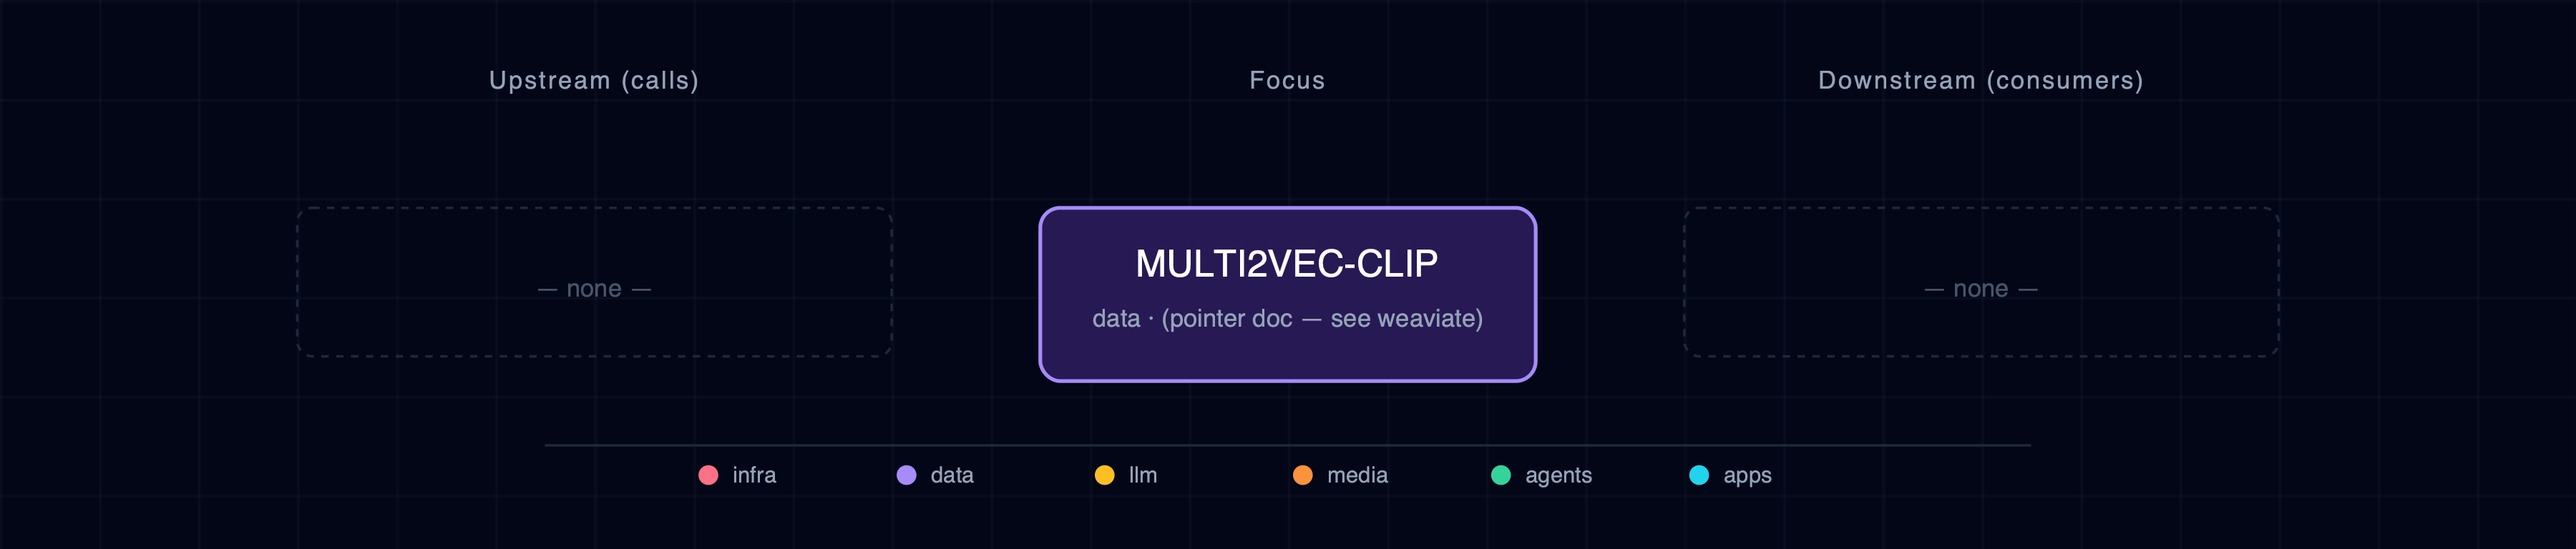
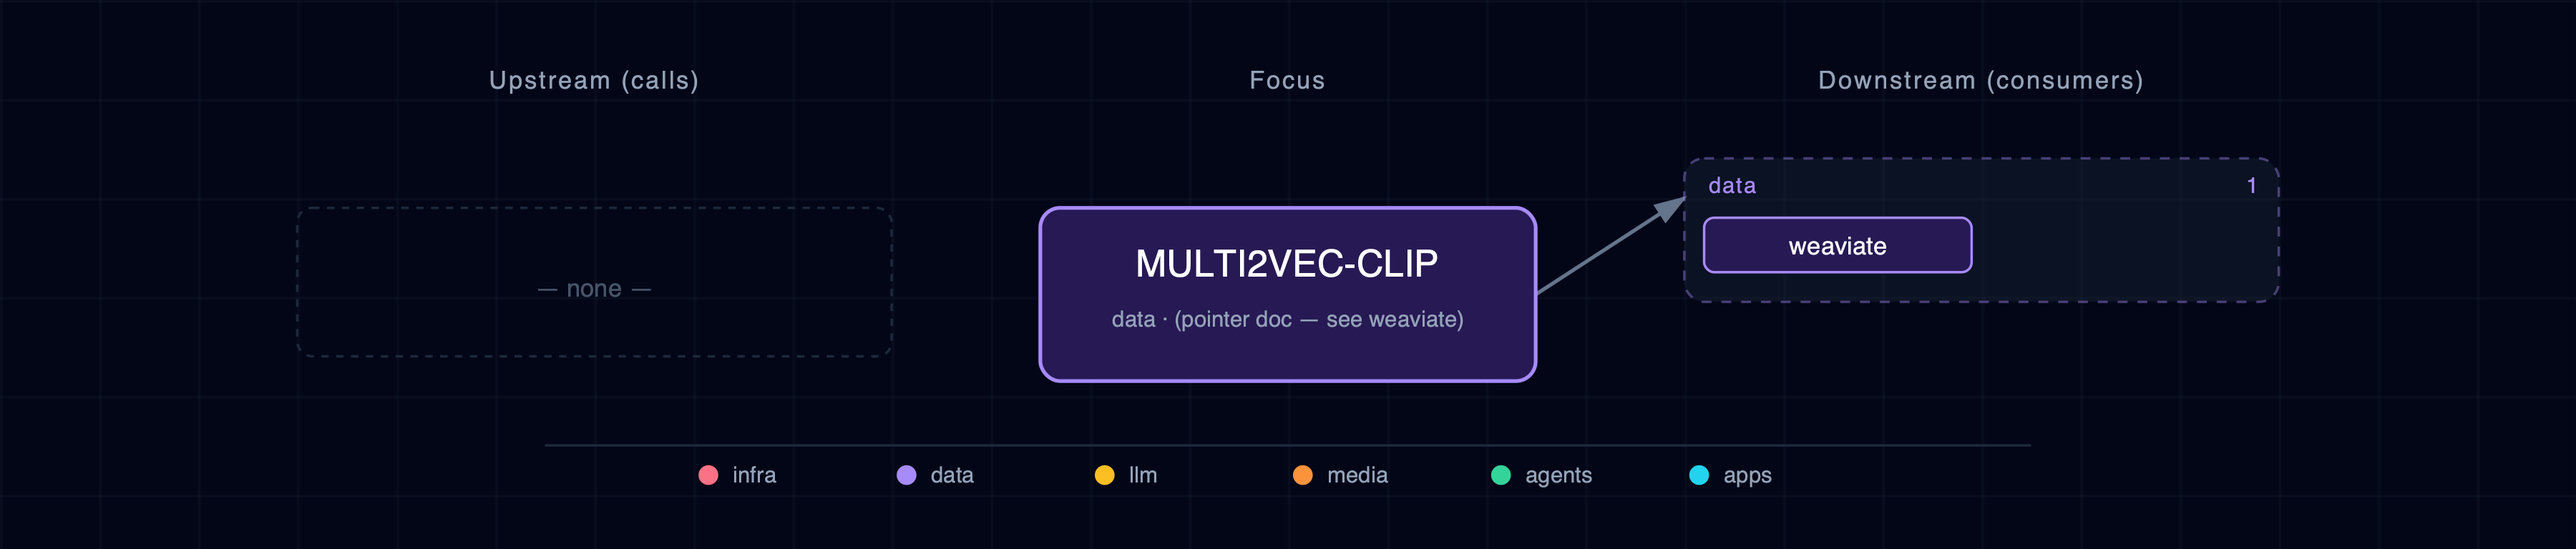
fix(docs): show CLIP consumers and fit diagram caption [skip ci]
Include declared consumers for pointer-only docs through the existing inverse traversal. Fit the current diagram subtitle without changing its text or layout. Regenerate only the affected CLIP artifacts.

Addresses #1662.

Changed region(s): [[0.6222, 0.3125, 0.7778, 0.5625], [0.4044, 0.5625, 0.5911, 0.5938]]

diff --git a/services/multi2vec-clip/architecture.html b/services/multi2vec-clip/architecture.html
@@ -43,9 +43,22 @@
 <text x="240" y="36" fill="#94a3b8" font-size="10" font-weight="600" text-anchor="middle" letter-spacing="0.08em">Upstream (calls)</text>
 <text x="520" y="36" fill="#94a3b8" font-size="10" font-weight="600" text-anchor="middle" letter-spacing="0.08em">Focus</text>
 <text x="800" y="36" fill="#94a3b8" font-size="10" font-weight="600" text-anchor="middle" letter-spacing="0.08em">Downstream (consumers)</text>
+<line x1="620" y1="119" x2="680" y2="80" stroke="#64748b" stroke-width="1.5" marker-end="url(#arrowhead)"/>
 <g><rect x="120" y="84" width="240" height="60" rx="6" fill="none" stroke="#1e293b" stroke-width="1" stroke-dasharray="3,3"/><text x="240" y="120" fill="#475569" font-size="10" font-style="italic" text-anchor="middle">— none —</text></g>
-<g><rect x="680" y="84" width="240" height="60" rx="6" fill="none" stroke="#1e293b" stroke-width="1" stroke-dasharray="3,3"/><text x="800" y="120" fill="#475569" font-size="10" font-style="italic" text-anchor="middle">— none —</text></g>
-<g class="focus" filter="url(#focus-glow)">  <rect x="420" y="84" width="200" height="70" rx="8" fill="#0f172a"/>  <rect x="420" y="84" width="200" height="70" rx="8"         fill="rgba(76, 29, 149, 0.4)" stroke="#a78bfa" stroke-width="1.5"/>  <text x="520" y="112" fill="white" font-size="15" font-weight="700"         text-anchor="middle">MULTI2VEC-CLIP</text>  <text x="520" y="132" fill="#94a3b8" font-size="10"         text-anchor="middle">data · (pointer doc — see weaviate)</text></g>
+<g>
+<g class="cluster">
+  <rect x="680" y="64" width="240" height="58" rx="8"
+        fill="rgba(30,41,59,0.35)"
+        stroke="#a78bfa" stroke-width="1" stroke-dasharray="4,4" stroke-opacity="0.4"/>
+  <text x="690" y="78" fill="#a78bfa" font-size="9" font-weight="700"
+        text-anchor="start" style="letter-spacing:0.06em;text-transform:uppercase;">data</text>
+  <text x="910" y="78" fill="#a78bfa" font-size="9" font-weight="600"
+        text-anchor="end">1</text>
+</g>
+
+<g><rect x="688" y="88" width="108" height="22" rx="4" fill="#0f172a"/><rect x="688" y="88" width="108" height="22" rx="4" fill="rgba(76, 29, 149, 0.4)" stroke="#a78bfa" stroke-width="1"/><text x="742" y="103" fill="white" font-size="10" text-anchor="middle">weaviate</text></g>
+</g>
+<g class="focus" filter="url(#focus-glow)">  <rect x="420" y="84" width="200" height="70" rx="8" fill="#0f172a"/>  <rect x="420" y="84" width="200" height="70" rx="8"         fill="rgba(76, 29, 149, 0.4)" stroke="#a78bfa" stroke-width="1.5"/>  <text x="520" y="112" fill="white" font-size="15" font-weight="700"         text-anchor="middle">MULTI2VEC-CLIP</text>  <text x="520" y="132" fill="#94a3b8" font-size="9"         text-anchor="middle">data · (pointer doc — see weaviate)</text></g>
 <g class="legend"><line x1="220" y1="180" x2="820" y2="180" stroke="#1e293b" stroke-width="1"/>
 <circle cx="286" cy="192" r="4" fill="#fb7185"/>
 <text x="296" y="195" fill="#94a3b8" font-size="9" font-weight="400" text-anchor="start">infra</text>
@@ -63,8 +76,8 @@
 </svg></div>
     <div class="cards">
       <div class="card"><h3>Calls</h3><div class="num">0</div></div>
-      <div class="card"><h3>Consumers</h3><div class="num">0</div></div>
-      <div class="card"><h3>Categories</h3><div class="num">0</div></div>
+      <div class="card"><h3>Consumers</h3><div class="num">1</div></div>
+      <div class="card"><h3>Categories</h3><div class="num">1</div></div>
     </div>
   </div>
 </body>

diff --git a/bootstrapper/docs/deps_resolver.py b/bootstrapper/docs/deps_resolver.py
@@ -148,6 +148,10 @@ def build_doc_graph(
             category="data",
             port_var=None,
             source="(pointer doc — see weaviate)",
+            downstream=tuple(sorted(
+                _downstream_edges(doc_folder, set(), manifests_by_name).values(),
+                key=_edge_sort_key,
+            )),
         )
 
     members = [manifests_by_name[n] for n in manifest_names if n in manifests_by_name]
@@ -193,32 +197,7 @@ def _build_for_manifests(
                 condition=call.condition,
             ))
 
-    # Downstream — every other manifest whose data_flow.calls names focus,
-    # any member, or the doc folder containing the focus. The last is
-    # load-bearing for aggregate MEMBERS: consumers call the role name
-    # (e.g. kong/n8n/open-webui/hermes call `stt-provider`, not `parakeet`),
-    # so without it a member like parakeet/chatterbox/speaches/docling
-    # rendered a misleading "No downstream consumers". The self-loop guard
-    # below keeps the focus's own folder from being drawn as a consumer.
-    downstream_keys: set[str] = {focus, *member_names, _manifest_to_doc_folder(focus)}
-    downstream: dict[str, DepEdge] = {}
-    for other_name, other_m in all_m.items():
-        if other_name in member_names:
-            continue
-        # Render the consumer under its doc-folder name where applicable, and
-        # never as a self-loop via doc-folder collapse.
-        rendered = _manifest_to_doc_folder(other_name)
-        if rendered == focus or rendered in member_names:
-            continue
-        for call in _calls_of(other_m):
-            if call.target in downstream_keys:
-                downstream[rendered] = _stronger(downstream.get(rendered), DepEdge(
-                    other=rendered,
-                    direction="downstream",
-                    other_category=_resolve_category(rendered, all_m),
-                    status=call.status,
-                    condition=call.condition,
-                ))
+    downstream = _downstream_edges(focus, member_names, all_m)
 
     # Bidirectional collapse: same name in both directions.
     both = set(upstream) & set(downstream)
@@ -254,6 +233,40 @@ def _build_for_manifests(
         downstream=tuple(sorted(downstream.values(), key=_edge_sort_key)),
         init_containers=init_containers,
     )
+
+
+def _downstream_edges(
+    focus: str, member_names: set[str], all_m: dict[str, Manifest],
+) -> dict[str, DepEdge]:
+    """Find declared callers for singleton, aggregate and pointer-only docs."""
+    # Downstream — every other manifest whose data_flow.calls names focus,
+    # any member, or the doc folder containing the focus. The last is
+    # load-bearing for aggregate MEMBERS: consumers call the role name
+    # (e.g. kong/n8n/open-webui/hermes call `stt-provider`, not `parakeet`),
+    # so without it a member like parakeet/chatterbox/speaches/docling
+    # rendered a misleading "No downstream consumers". The self-loop guard
+    # below keeps the focus's own folder from being drawn as a consumer.
+    downstream_keys: set[str] = {focus, *member_names, _manifest_to_doc_folder(focus)}
+    downstream: dict[str, DepEdge] = {}
+    for other_name, other_m in all_m.items():
+        if other_name in member_names:
+            continue
+        # Render the consumer under its doc-folder name where applicable, and
+        # never as a self-loop via doc-folder collapse.
+        rendered = _manifest_to_doc_folder(other_name)
+        if rendered == focus or rendered in member_names:
+            continue
+        for call in _calls_of(other_m):
+            if call.target in downstream_keys:
+                downstream[rendered] = _stronger(downstream.get(rendered), DepEdge(
+                    other=rendered,
+                    direction="downstream",
+                    other_category=_resolve_category(rendered, all_m),
+                    status=call.status,
+                    condition=call.condition,
+                ))
+
+    return downstream
 
 
 def _resolve_category(name: str, all_m: dict[str, Manifest]) -> str:

diff --git a/bootstrapper/tests/test_deps_resolver.py b/bootstrapper/tests/test_deps_resolver.py
@@ -173,3 +173,39 @@ def test_edge_status_comes_from_the_declaring_manifest():
         current, current, planned, "A; B",
     )
 
+
+
+def test_pointer_doc_includes_declared_weaviate_consumer():
+    from docs.deps_resolver import build_doc_graph
+
+    graph = build_doc_graph("multi2vec-clip", SERVICES_DIR)
+    consumers = {edge.other: edge for edge in graph.downstream}
+    assert "weaviate" in consumers
+    edge = consumers["weaviate"]
+    assert (edge.direction, edge.other_category, edge.status, edge.condition) == (
+        "downstream", "data", "current", "",
+    )
+    assert (graph.focus, graph.category, graph.port_var, graph.source, graph.upstream, graph.init_containers) == (
+        "multi2vec-clip", "data", None, "(pointer doc — see weaviate)", (), (),
+    )
+
+
+@pytest.mark.parametrize("case", [
+    ({"target": "multi2vec-clip", "status": "current"}, [("weaviate", "current", "")]),
+    ({"target": "multi2vec-clip", "status": "optional", "condition": "CLIP enabled"},
+     [("weaviate", "optional", "CLIP enabled")]),
+    ({"target": "multi2vec-clip", "status": "planned", "condition": "future caller"},
+     [("weaviate", "planned", "future caller")]),
+    ({"target": "litellm", "status": "current"}, []),
+])
+def test_pointer_doc_preserves_caller_qualification_and_filters_other_targets(case):
+    from dataclasses import replace
+    from docs.deps_resolver import build_doc_graph
+    from services.manifests import load_manifests
+
+    call, expected = case
+    owner = next(m for m in load_manifests(SERVICES_DIR) if m.name == "weaviate")
+    caller = replace(owner, data_flow={"calls": [call]})
+    graph = build_doc_graph("multi2vec-clip", SERVICES_DIR, manifests=[caller])
+    assert [(edge.other, edge.status, edge.condition) for edge in graph.downstream] == expected
+    assert graph.upstream == ()

diff --git a/bootstrapper/docs/diagram_renderer.py b/bootstrapper/docs/diagram_renderer.py
@@ -191,6 +191,8 @@ def _focus_box(x: int, y: int, w: int, h: int, graph: DepGraph) -> str:
     cx = x + w // 2
     title = graph.focus.upper()
     title_size = _fit_font_size(title, w - 16, preferred=15, minimum=10)
+    subtitle = f"{graph.category} · {graph.source}"
+    subtitle_size = _fit_font_size(subtitle, w - 4, preferred=10, minimum=7)
     # Two-rect pattern (per the architecture-diagram skill): opaque
     # slate-900 backdrop, then the category-themed semi-transparent fill on
     # top so any arrow drawn behind the box is fully masked.
@@ -201,8 +203,8 @@ def _focus_box(x: int, y: int, w: int, h: int, graph: DepGraph) -> str:
         f'        fill="{fill}" stroke="{color}" stroke-width="1.5"/>'
         f'  <text x="{cx}" y="{y + 28}" fill="white" font-size="{title_size}" font-weight="700" '
         f'        text-anchor="middle">{html_mod.escape(title)}</text>'
-        f'  <text x="{cx}" y="{y + 48}" fill="#94a3b8" font-size="10" '
-        f'        text-anchor="middle">{html_mod.escape(graph.category)} · {html_mod.escape(graph.source)}</text>'
+        f'  <text x="{cx}" y="{y + 48}" fill="#94a3b8" font-size="{subtitle_size}" '
+        f'        text-anchor="middle">{html_mod.escape(subtitle)}</text>'
         f'</g>'
     )
 

diff --git a/bootstrapper/tests/test_diagram_renderer.py b/bootstrapper/tests/test_diagram_renderer.py
@@ -223,3 +223,18 @@ def test_optional_and_planned_pills_are_dashed_and_legended():
         [qualified.count(d) for d in dashes], ">optional<" in qualified, ">planned<" in qualified,
     ) == ([0, 0], False, False, [3, 3], True, True)
 
+
+def test_pointer_doc_subtitle_fits_focus_box():
+    from docs.deps_resolver import build_doc_graph
+    from docs.diagram_renderer import render_svg
+
+    svg = ET.fromstring(render_svg(build_doc_graph("multi2vec-clip", SERVICES_DIR)))
+    ns = {"svg": "http://www.w3.org/2000/svg"}
+    focus = svg.find("svg:g[@class='focus']", ns)
+    box = focus.find("svg:rect", ns)
+    subtitle = focus.findall("svg:text", ns)[-1]
+    half_width = len(subtitle.text) * float(subtitle.attrib["font-size"]) * 0.62 / 2
+    center = float(subtitle.attrib["x"])
+    left = float(box.attrib["x"])
+    right = left + float(box.attrib["width"])
+    assert left < center - half_width < center + half_width < right

diff --git a/services/multi2vec-clip/README.md b/services/multi2vec-clip/README.md
@@ -76,7 +76,7 @@ Content-Type: application/json
 
 Weaviate calls this endpoint internally on every `POST /v1/objects` against a collection whose `vectorizer: multi2vec-clip`. The CLIP module knows nothing about Weaviate — it's a pure embedding service.
 
-**Network.** Joined to `backend-network`. Any container on that network can `POST /vectorize` directly. The data-flow graph does not list this path because no service uses it.
+**Network.** Joined to `backend-network`. Any container on that network can `POST /vectorize` directly. Weaviate is the declared consumer. Other services have no direct integration.
 
 **Volumes / state.** None. The model is baked into the image; the container is stateless and trivially restartable.
 
@@ -90,7 +90,9 @@ _No upstream calls._
 
 ### 5.2. Current — Downstream (services that call this)
 
-_No downstream consumers._
+| Service | Category |
+|---|---|
+| weaviate | data |
 
 ### 5.3. Architecture diagram
 
